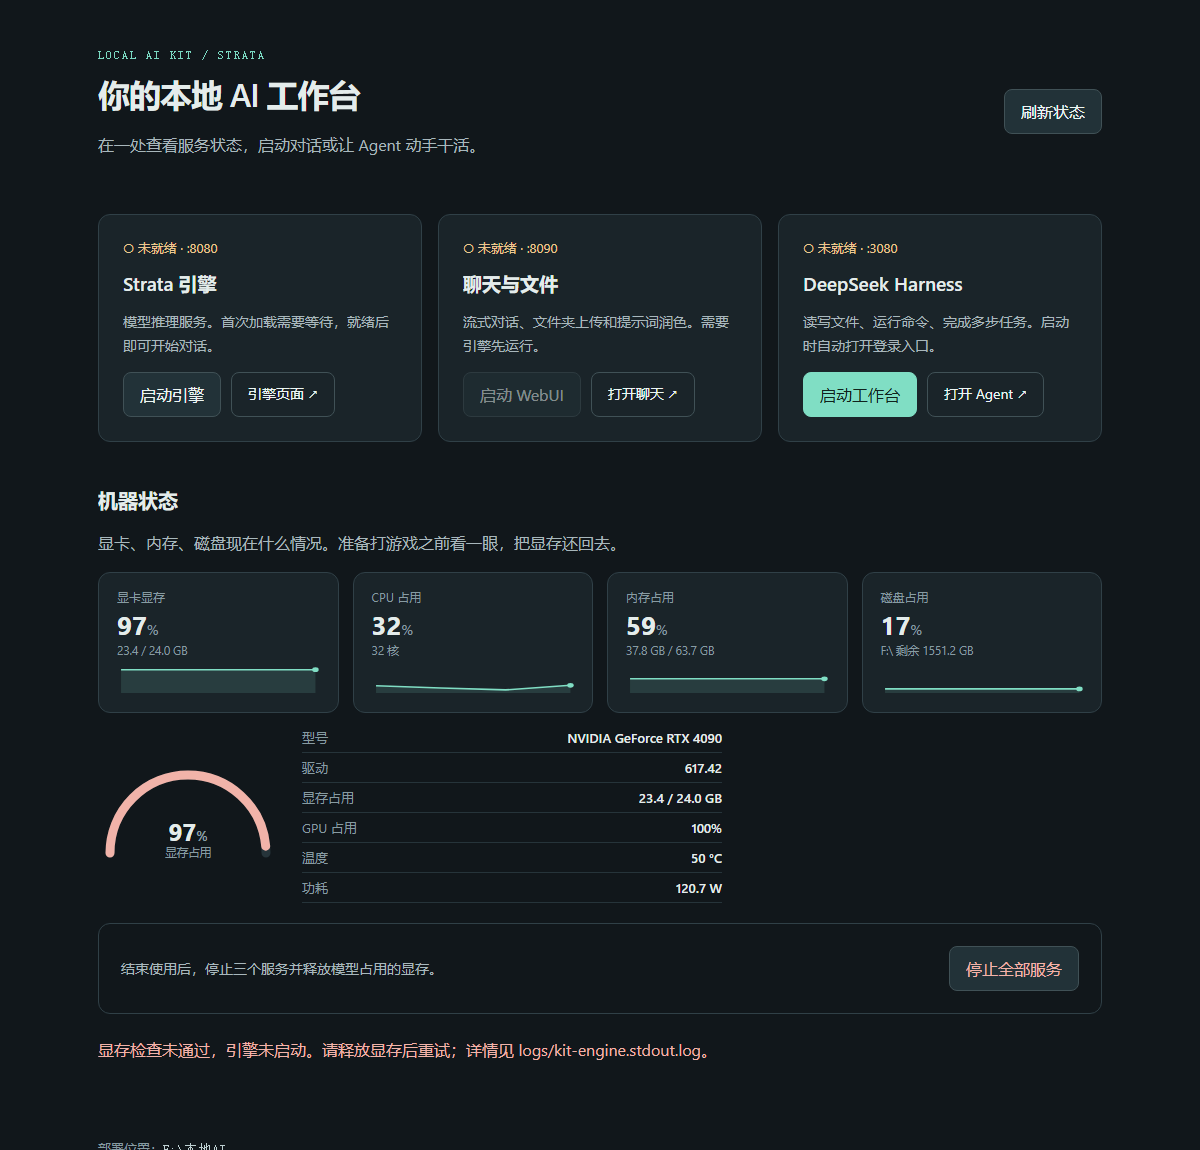
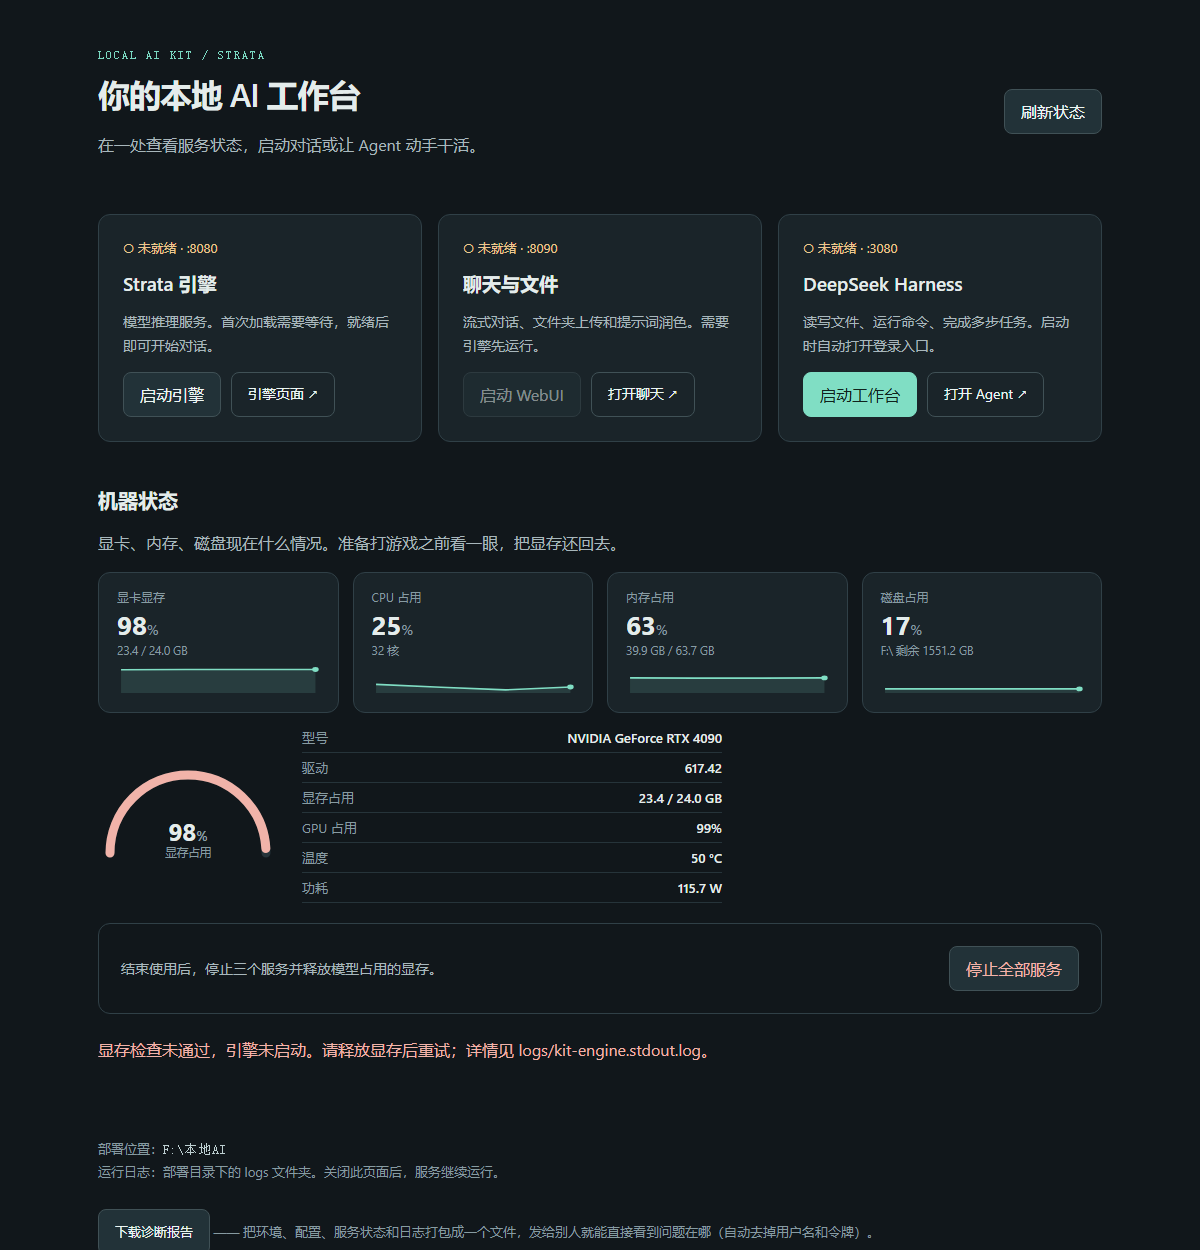
feat: v1.5.0 收尾 —— 诊断报告支持 Strata 部署
R43 诊断报告在 Strata 部署下也能出：内容换成「三个服务在不在、端口通不通、
    日志里有没有报错」，不再走 Ollama 那套体检
R44 Strata 控制台页面加「下载诊断报告」按钮
R45 本地部署 F:\本地AI 的 README-CN.txt 补上第九节，说明 v1.5.0 的变化
    与「Strata 部署下哪些功能仍然关闭」

diff --git a/ui/strata.html b/ui/strata.html
@@ -52,5 +52,6 @@
   <p id="engine-error" class="message error" role="status" hidden></p>
   <div id="message" class="message" role="status" aria-live="polite"></div>
   <p class="note">部署位置：<code id="root">读取中…</code><br>运行日志：部署目录下的 logs 文件夹。关闭此页面后，服务继续运行。</p>
+  <p class="note"><button id="report">下载诊断报告</button> —— 把环境、配置、服务状态和日志打包成一个文件，发给别人就能直接看到问题在哪（自动去掉用户名和令牌）。</p>
   <script>/*TOKEN*/</script><script src="charts.js"></script><script src="strata.js"></script>
 </main></body></html>

diff --git a/ui/strata.js b/ui/strata.js
@@ -46,6 +46,10 @@ for (const button of document.querySelectorAll('[data-action]')) {
   });
 }
 $('refresh').addEventListener('click', () => refresh().catch((error) => message(error.message, true)));
+$('report').addEventListener('click', () => {
+  window.open('/api/report', '_blank');
+  message('诊断报告已开始下载。');
+});
 refresh().catch((error) => message(error.message, true));
 setInterval(() => { refresh().catch(() => message('控制台连接已断开，请重新打开控制台。', true)); }, 5000);
 
